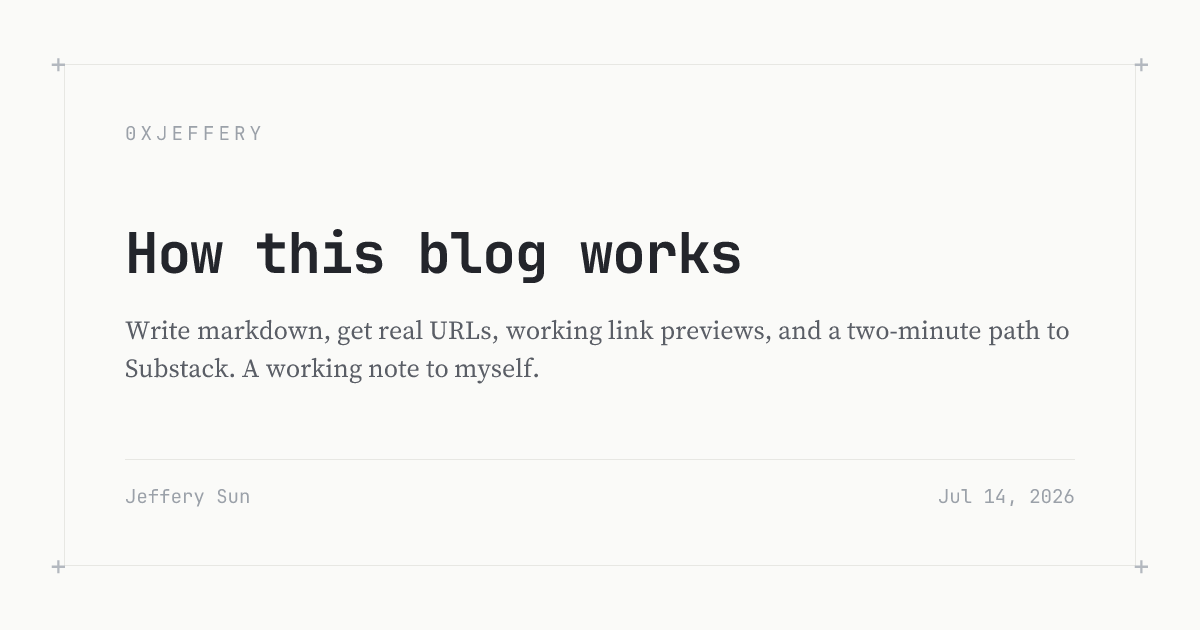
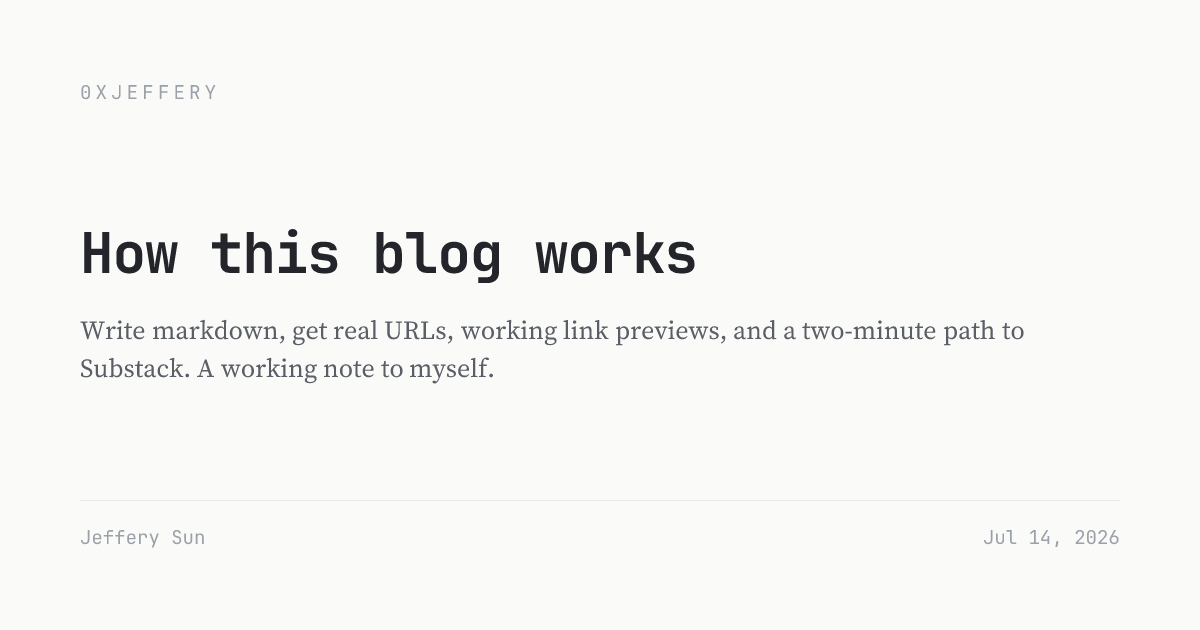
Updates

diff --git a/_astro/BaseLayout.9wKVtOul.css b/_astro/BaseLayout.9wKVtOul.css
@@ -1,0 +1,2 @@
+/*! tailwindcss v4.3.2 | MIT License | https://tailwindcss.com */
+@layer properties{@supports (((-webkit-hyphens:none)) and (not (margin-trim:inline))) or ((-moz-orient:inline) and (not (color:rgb(from red r g b)))){*,:before,:after,::backdrop{--tw-tracking:initial;--tw-space-y-reverse:0;--tw-leading:initial;--tw-font-weight:initial;--tw-duration:initial;--tw-ordinal:initial;--tw-slashed-zero:initial;--tw-numeric-figure:initial;--tw-numeric-spacing:initial;--tw-numeric-fraction:initial;--tw-border-style:solid}}}@layer theme{:root,:host{--font-sans:ui-sans-serif, system-ui, sans-serif, "Apple Color Emoji", "Segoe UI Emoji", "Segoe UI Symbol", "Noto Color Emoji";--font-serif:"Source Serif 4", ui-serif, Charter, "Iowan Old Style", Georgia, serif;--font-mono:"JetBrains Mono", ui-monospace, SFMono-Regular, Menlo, monospace;--spacing:.25rem;--text-xs:.75rem;--text-xs--line-height:calc(1 / .75);--text-sm:.875rem;--text-sm--line-height:calc(1.25 / .875);--text-base:1rem;--text-base--line-height:calc(1.5 / 1);--text-lg:1.125rem;--text-lg--line-height:calc(1.75 / 1.125);--text-2xl:1.5rem;--text-2xl--line-height:calc(2 / 1.5);--font-weight-semibold:600;--font-weight-bold:700;--tracking-tight:-.025em;--leading-tight:1.25;--leading-snug:1.375;--leading-relaxed:1.625;--default-transition-duration:.15s;--default-transition-timing-function:cubic-bezier(.4, 0, .2, 1);--default-font-family:var(--font-sans);--default-mono-font-family:var(--font-mono);--color-paper:#fafaf8;--color-ink:#23252b;--color-muted:#5a5e66;--color-faint:#9ba1a9;--color-line:#e7e7e3;--color-line2:#d5d5cf;--animate-fade-up:fade-up .6s ease-out both}}@layer base{*,:after,:before,::backdrop{box-sizing:border-box;border:0 solid;margin:0;padding:0}::file-selector-button{box-sizing:border-box;border:0 solid;margin:0;padding:0}html,:host{-webkit-text-size-adjust:100%;tab-size:4;line-height:1.5;font-family:var(--default-font-family,ui-sans-serif, system-ui, sans-serif, "Apple Color Emoji", "Segoe UI Emoji", "Segoe UI Symbol", "Noto Color Emoji");font-feature-settings:var(--default-font-feature-settings,normal);font-variation-settings:var(--default-font-variation-settings,normal);-webkit-tap-highlight-color:transparent}hr{height:0;color:inherit;border-top-width:1px}abbr:where([title]){text-decoration:underline dotted}h1,h2,h3,h4,h5,h6{font-size:inherit;font-weight:inherit}a{color:inherit;-webkit-text-decoration:inherit;-webkit-text-decoration:inherit;-webkit-text-decoration:inherit;text-decoration:inherit}b,strong{font-weight:bolder}code,kbd,samp,pre{font-family:var(--default-mono-font-family,ui-monospace, SFMono-Regular, Menlo, Monaco, Consolas, "Liberation Mono", "Courier New", monospace);font-feature-settings:var(--default-mono-font-feature-settings,normal);font-variation-settings:var(--default-mono-font-variation-settings,normal);font-size:1em}small{font-size:80%}sub,sup{vertical-align:baseline;font-size:75%;line-height:0;position:relative}sub{bottom:-.25em}sup{top:-.5em}table{text-indent:0;border-color:inherit;border-collapse:collapse}:-moz-focusring{outline:auto}progress{vertical-align:baseline}summary{display:list-item}ol,ul,menu{list-style:none}img,svg,video,canvas,audio,iframe,embed,object{vertical-align:middle;display:block}img,video{max-width:100%;height:auto}button,input,select,optgroup,textarea{font:inherit;font-feature-settings:inherit;font-variation-settings:inherit;letter-spacing:inherit;color:inherit;opacity:1;background-color:#0000;border-radius:0}::file-selector-button{font:inherit;font-feature-settings:inherit;font-variation-settings:inherit;letter-spacing:inherit;color:inherit;opacity:1;background-color:#0000;border-radius:0}:where(select:is([multiple],[size])) optgroup{font-weight:bolder}:where(select:is([multiple],[size])) optgroup option{padding-inline-start:20px}::file-selector-button{margin-inline-end:4px}::placeholder{opacity:1}@supports (not ((-webkit-appearance:-apple-pay-button))) or (contain-intrinsic-size:1px){::placeholder{color:currentColor}@supports (color:color-mix(in lab, red, red)){::placeholder{color:color-mix(in oklab, currentcolor 50%, transparent)}}}textarea{resize:vertical}::-webkit-search-decoration{-webkit-appearance:none}::-webkit-date-and-time-value{min-height:1lh;text-align:inherit}::-webkit-datetime-edit{display:inline-flex}::-webkit-datetime-edit-fields-wrapper{padding:0}::-webkit-datetime-edit{padding-block:0}::-webkit-datetime-edit-year-field{padding-block:0}::-webkit-datetime-edit-month-field{padding-block:0}::-webkit-datetime-edit-day-field{padding-block:0}::-webkit-datetime-edit-hour-field{padding-block:0}::-webkit-datetime-edit-minute-field{padding-block:0}::-webkit-datetime-edit-second-field{padding-block:0}::-webkit-datetime-edit-millisecond-field{padding-block:0}::-webkit-datetime-edit-meridiem-field{padding-block:0}::-webkit-calendar-picker-indicator{line-height:1}:-moz-ui-invalid{box-shadow:none}button,input:where([type=button],[type=reset],[type=submit]){appearance:button}::file-selector-button{appearance:button}::-webkit-inner-spin-button{height:auto}::-webkit-outer-spin-button{height:auto}[hidden]:where(:not([hidden=until-found])){display:none!important}html{scroll-behavior:smooth}body{background-color:var(--color-paper);font-family:var(--font-mono);color:var(--color-ink);-webkit-font-smoothing:antialiased;-moz-osx-font-smoothing:grayscale}::selection{color:#fafaf8;background:#23252bd9}}@layer components{.prose{font-family:var(--font-serif);--tw-leading:1.65;color:var(--color-ink);font-variant-numeric:oldstyle-nums proportional-nums;text-wrap:pretty;font-size:1.0625rem;line-height:1.65}.prose>*+*{margin-top:calc(var(--spacing) * 5)}.prose h2{margin-top:calc(var(--spacing) * 14);font-family:var(--font-mono);font-size:var(--text-base);line-height:var(--tw-leading,var(--text-base--line-height));--tw-font-weight:var(--font-weight-bold);font-weight:var(--font-weight-bold);--tw-tracking:var(--tracking-tight);letter-spacing:var(--tracking-tight);color:var(--color-ink)}.prose h3{margin-top:calc(var(--spacing) * 9);font-family:var(--font-mono);font-size:var(--text-sm);line-height:var(--tw-leading,var(--text-sm--line-height));--tw-font-weight:var(--font-weight-bold);font-weight:var(--font-weight-bold);--tw-tracking:var(--tracking-tight);letter-spacing:var(--tracking-tight);color:var(--color-ink)}.prose h2+*,.prose h3+*{margin-top:calc(var(--spacing) * 3)}.prose a{color:var(--color-ink);transition-property:color,background-color,border-color,outline-color,text-decoration-color,fill,stroke,--tw-gradient-from,--tw-gradient-via,--tw-gradient-to;transition-timing-function:var(--tw-ease,var(--default-transition-timing-function));transition-duration:var(--tw-duration,var(--default-transition-duration));--tw-duration:.15s;text-underline-offset:3px;text-decoration:underline 1px #cfcfc8;transition-duration:.15s}.prose a:hover{color:var(--color-muted);text-decoration-color:#5a5e66}.prose strong{--tw-font-weight:var(--font-weight-semibold);font-weight:var(--font-weight-semibold);color:var(--color-ink)}.prose em{font-style:italic}.prose ul{list-style-type:disc;list-style-position:outside}:where(.prose ul>:not(:last-child)){--tw-space-y-reverse:0;margin-block-start:calc(calc(var(--spacing) * 2) * var(--tw-space-y-reverse));margin-block-end:calc(calc(var(--spacing) * 2) * calc(1 - var(--tw-space-y-reverse)))}.prose ul{padding-left:calc(var(--spacing) * 5)}.prose ol{list-style-type:decimal;list-style-position:outside}:where(.prose ol>:not(:last-child)){--tw-space-y-reverse:0;margin-block-start:calc(calc(var(--spacing) * 2) * var(--tw-space-y-reverse));margin-block-end:calc(calc(var(--spacing) * 2) * calc(1 - var(--tw-space-y-reverse)))}.prose ol{padding-left:calc(var(--spacing) * 5)}.prose li::marker{font-family:var(--font-mono);font-size:var(--text-sm);line-height:var(--tw-leading,var(--text-sm--line-height));color:var(--color-faint)}.prose blockquote{border-left-style:var(--tw-border-style);border-left-width:2px;border-color:var(--color-line2);padding-block:var(--spacing);padding-left:calc(var(--spacing) * 5);color:var(--color-muted);font-style:italic}.prose hr{margin-block:calc(var(--spacing) * 12);border-top-style:var(--tw-border-style);border-top-width:1px;border-color:var(--color-line)}.prose img{margin-block:calc(var(--spacing) * 8);border-style:var(--tw-border-style);border-width:1px;border-color:var(--color-line);max-width:100%}.prose figcaption{margin-top:calc(var(--spacing) * 2);font-family:var(--font-mono);font-size:var(--text-xs);line-height:var(--tw-leading,var(--text-xs--line-height));color:var(--color-faint)}.prose code:not(pre code){background-color:#23252b0a;border-radius:2px}@supports (color:color-mix(in lab, red, red)){.prose code:not(pre code){background-color:color-mix(in oklab, var(--color-ink) 4%, transparent)}}.prose code:not(pre code){padding-inline:var(--spacing);padding-block:calc(var(--spacing) * .5);font-family:var(--font-mono);color:var(--color-ink);font-size:.8125rem}.prose pre{padding:calc(var(--spacing) * 5);font-family:var(--font-mono);--tw-leading:var(--leading-relaxed);font-size:.8125rem;line-height:var(--leading-relaxed);overflow-x:auto;background-color:#23252b09!important}.prose pre code{background-color:#0000;padding:0}.prose table{border-collapse:collapse;width:100%;font-family:var(--font-mono);font-size:.8125rem}.prose th,.prose td{border-bottom-style:var(--tw-border-style);border-bottom-width:1px;border-color:var(--color-line);padding-block:calc(var(--spacing) * 2);padding-right:calc(var(--spacing) * 6);text-align:left}.prose th{--tw-tracking:.1em;letter-spacing:.1em;color:var(--color-faint);text-transform:uppercase;font-size:11px}.prose .footnotes{margin-top:calc(var(--spacing) * 12);border-top-style:var(--tw-border-style);border-top-width:1px;border-color:var(--color-line);padding-top:calc(var(--spacing) * 6);font-size:var(--text-sm);line-height:var(--tw-leading,var(--text-sm--line-height));color:var(--color-muted)}.sidenote{border-left-style:var(--tw-border-style);border-left-width:2px;border-color:var(--color-line2);padding-block:var(--spacing);padding-left:calc(var(--spacing) * 4);font-family:var(--font-mono);--tw-leading:var(--leading-relaxed);font-size:.75rem;line-height:var(--leading-relaxed);color:var(--color-muted);margin-block:calc(var(--spacing) * 4);display:block}@media (width>=64rem){.sidenote{float:right;clear:right;margin-block:var(--spacing);margin-left:calc(var(--spacing) * 8);border-left-style:var(--tw-border-style);padding-block:0;border-left-width:0;width:11rem;margin-right:-13.5rem;padding-left:0}}}@layer utilities{.visible{visibility:visible}.absolute{position:absolute}.fixed{position:fixed}.relative{position:relative}.static{position:static}.mx-auto{margin-inline:auto}.mt-1{margin-top:var(--spacing)}.mt-2{margin-top:calc(var(--spacing) * 2)}.mt-3{margin-top:calc(var(--spacing) * 3)}.mt-4{margin-top:calc(var(--spacing) * 4)}.mt-8{margin-top:calc(var(--spacing) * 8)}.mt-12{margin-top:calc(var(--spacing) * 12)}.mt-14{margin-top:calc(var(--spacing) * 14)}.mt-20{margin-top:calc(var(--spacing) * 20)}.mt-24{margin-top:calc(var(--spacing) * 24)}.mb-3{margin-bottom:calc(var(--spacing) * 3)}.mb-10{margin-bottom:calc(var(--spacing) * 10)}.tag{font-family:var(--font-mono);--tw-tracking:.14em;letter-spacing:.14em;color:var(--color-faint);text-transform:lowercase;align-items:center;font-size:11px;display:inline-flex}.block{display:block}.contents{display:contents}.flex{display:flex}.hidden{display:none}.min-h-screen{min-height:100vh}.max-w-\[60ch\]{max-width:60ch}.max-w-\[74rem\]{max-width:74rem}.animate-fade-up{animation:var(--animate-fade-up)}.cursor-pointer{cursor:pointer}.flex-wrap{flex-wrap:wrap}.items-center{align-items:center}.justify-between{justify-content:space-between}.gap-2{gap:calc(var(--spacing) * 2)}:where(.space-y-2>:not(:last-child)){--tw-space-y-reverse:0;margin-block-start:calc(calc(var(--spacing) * 2) * var(--tw-space-y-reverse));margin-block-end:calc(calc(var(--spacing) * 2) * calc(1 - var(--tw-space-y-reverse)))}:where(.space-y-12>:not(:last-child)){--tw-space-y-reverse:0;margin-block-start:calc(calc(var(--spacing) * 12) * var(--tw-space-y-reverse));margin-block-end:calc(calc(var(--spacing) * 12) * calc(1 - var(--tw-space-y-reverse)))}.gap-x-3{column-gap:calc(var(--spacing) * 3)}.gap-x-5{column-gap:calc(var(--spacing) * 5)}.gap-y-2{row-gap:calc(var(--spacing) * 2)}.overflow-x-hidden{overflow-x:hidden}.px-5{padding-inline:calc(var(--spacing) * 5)}.py-14{padding-block:calc(var(--spacing) * 14)}.py-20{padding-block:calc(var(--spacing) * 20)}.pt-1{padding-top:var(--spacing)}.font-mono{font-family:var(--font-mono)}.font-serif{font-family:var(--font-serif)}.text-2xl{font-size:var(--text-2xl);line-height:var(--tw-leading,var(--text-2xl--line-height))}.text-base{font-size:var(--text-base);line-height:var(--tw-leading,var(--text-base--line-height))}.text-lg{font-size:var(--text-lg);line-height:var(--tw-leading,var(--text-lg--line-height))}.text-sm{font-size:var(--text-sm);line-height:var(--tw-leading,var(--text-sm--line-height))}.text-xs{font-size:var(--text-xs);line-height:var(--tw-leading,var(--text-xs--line-height))}.leading-relaxed{--tw-leading:var(--leading-relaxed);line-height:var(--leading-relaxed)}.leading-snug{--tw-leading:var(--leading-snug);line-height:var(--leading-snug)}.leading-tight{--tw-leading:var(--leading-tight);line-height:var(--leading-tight)}.font-bold{--tw-font-weight:var(--font-weight-bold);font-weight:var(--font-weight-bold)}.tracking-\[0\.15em\]{--tw-tracking:.15em;letter-spacing:.15em}.tracking-\[0\.18em\]{--tw-tracking:.18em;letter-spacing:.18em}.tracking-tight{--tw-tracking:var(--tracking-tight);letter-spacing:var(--tracking-tight)}.ulink{color:var(--color-ink);transition-property:color,background-color,border-color,outline-color,text-decoration-color,fill,stroke,--tw-gradient-from,--tw-gradient-via,--tw-gradient-to;transition-timing-function:var(--tw-ease,var(--default-transition-timing-function));transition-duration:var(--tw-duration,var(--default-transition-duration));--tw-duration:.15s;text-underline-offset:3px;text-decoration:underline 1px #cfcfc8;transition-duration:.15s}.ulink:hover{color:var(--color-muted);text-decoration-color:#5a5e66}.text-faint{color:var(--color-faint)}.text-ink{color:var(--color-ink)}.text-muted{color:var(--color-muted)}.uppercase{text-transform:uppercase}.tabular-nums{--tw-numeric-spacing:tabular-nums;font-variant-numeric:var(--tw-ordinal,) var(--tw-slashed-zero,) var(--tw-numeric-figure,) var(--tw-numeric-spacing,) var(--tw-numeric-fraction,)}.underline{text-decoration-line:underline}.decoration-\[\#cfcfc8\]{text-decoration-color:#cfcfc8}.decoration-1{text-decoration-thickness:1px}.underline-offset-\[3px\]{text-underline-offset:3px}.opacity-0{opacity:0}.transition-colors{transition-property:color,background-color,border-color,outline-color,text-decoration-color,fill,stroke,--tw-gradient-from,--tw-gradient-via,--tw-gradient-to;transition-timing-function:var(--tw-ease,var(--default-transition-timing-function));transition-duration:var(--tw-duration,var(--default-transition-duration))}.transition-opacity{transition-property:opacity;transition-timing-function:var(--tw-ease,var(--default-transition-timing-function));transition-duration:var(--tw-duration,var(--default-transition-duration))}@media (hover:hover){.group-hover\:text-muted:is(:where(.group):hover *){color:var(--color-muted)}.group-hover\:decoration-\[\#5a5e66\]:is(:where(.group):hover *){text-decoration-color:#5a5e66}}@media (width>=40rem){.sm\:mt-0{margin-top:0}.sm\:grid{display:grid}.sm\:grid-cols-\[9rem_minmax\(0\,64ch\)\]{grid-template-columns:9rem minmax(0,64ch)}.sm\:gap-10{gap:calc(var(--spacing) * 10)}.sm\:px-10{padding-inline:calc(var(--spacing) * 10)}.sm\:py-16{padding-block:calc(var(--spacing) * 16)}.sm\:text-\[1\.75rem\]{font-size:1.75rem}}@media (width>=64rem){.lg\:sticky{position:sticky}.lg\:top-14{top:calc(var(--spacing) * 14)}.lg\:mb-0{margin-bottom:0}.lg\:block{display:block}.lg\:grid{display:grid}.lg\:grid-cols-\[11rem_minmax\(0\,64ch\)_11rem\]{grid-template-columns:11rem minmax(0,64ch) 11rem}.lg\:justify-center{justify-content:center}.lg\:gap-10{gap:calc(var(--spacing) * 10)}.lg\:px-14{padding-inline:calc(var(--spacing) * 14)}}}::-webkit-scrollbar{width:10px;height:10px}::-webkit-scrollbar-track{background:0 0}::-webkit-scrollbar-thumb{background:#d5d5cf;border-radius:6px}::-webkit-scrollbar-thumb:hover{background:#bcbcb4}@property --tw-tracking{syntax:"*";inherits:false}@property --tw-space-y-reverse{syntax:"*";inherits:false;initial-value:0}@property --tw-leading{syntax:"*";inherits:false}@property --tw-font-weight{syntax:"*";inherits:false}@property --tw-duration{syntax:"*";inherits:false}@property --tw-ordinal{syntax:"*";inherits:false}@property --tw-slashed-zero{syntax:"*";inherits:false}@property --tw-numeric-figure{syntax:"*";inherits:false}@property --tw-numeric-spacing{syntax:"*";inherits:false}@property --tw-numeric-fraction{syntax:"*";inherits:false}@property --tw-border-style{syntax:"*";inherits:false;initial-value:solid}@keyframes fade-up{0%{opacity:0;transform:translateY(8px)}to{opacity:1;transform:translateY(0)}}

diff --git a/posts/how-this-works/index.html b/posts/how-this-works/index.html
@@ -1,8 +1,8 @@
-<!DOCTYPE html><html lang="en"><head><meta charset="utf-8"><meta name="viewport" content="width=device-width, initial-scale=1"><meta name="theme-color" content="#fafaf8"><meta name="generator" content="Astro v7.0.9"><title>How this blog works — 0xjeffery</title><meta name="description" content="Write markdown, get real URLs, working link previews, and a two-minute path to Substack. A working note to myself."><link rel="canonical" href="https://0xjeffery.com/posts/how-this-works/"><link rel="icon" href="/logo.png" type="image/png"><link rel="sitemap" href="/sitemap-index.xml"><link rel="alternate" type="application/rss+xml" title="0xjeffery — Writing on markets, AI, and tech." href="https://0xjeffery.com/rss.xml"><!-- Open Graph: what LinkedIn (and most everything else) reads. --><meta property="og:type" content="article"><meta property="og:url" content="https://0xjeffery.com/posts/how-this-works/"><meta property="og:title" content="How this blog works"><meta property="og:description" content="Write markdown, get real URLs, working link previews, and a two-minute path to Substack. A working note to myself."><meta property="og:image" content="https://0xjeffery.com/og/how-this-works.png"><meta property="og:image:width" content="1200"><meta property="og:image:height" content="630"><meta property="og:image:alt" content="How this blog works"><meta property="og:site_name" content="0xjeffery"><meta property="og:locale" content="en_US"><meta property="article:published_time" content="2026-07-14T00:00:00.000Z"><meta property="article:author" content="Jeffery Sun"><!-- Twitter/X card. `summary_large_image` is what renders the big preview. --><meta name="twitter:card" content="summary_large_image"><meta name="twitter:title" content="How this blog works"><meta name="twitter:description" content="Write markdown, get real URLs, working link previews, and a two-minute path to Substack. A working note to myself."><meta name="twitter:image" content="https://0xjeffery.com/og/how-this-works.png"><meta name="twitter:image:alt" content="How this blog works"><link rel="preconnect" href="https://fonts.googleapis.com"><link rel="preconnect" href="https://fonts.gstatic.com" crossorigin><link href="https://fonts.googleapis.com/css2?family=JetBrains+Mono:wght@400;500;700&family=Source+Serif+4:ital,opsz,wght@0,8..60,400..600;1,8..60,400&display=swap" rel="stylesheet"><link rel="stylesheet" href="/_astro/BaseLayout.CXotwUak.css"></head><body><div class="animate-fade-up min-h-screen overflow-x-hidden"><div class="mx-auto max-w-[74rem] px-5 py-10 sm:px-8 sm:py-12"><div class="frame border-line relative px-1 sm:border-x sm:px-8 lg:px-10"><main class="py-2"><a href="/" class="ulink text-muted font-mono text-xs tracking-[0.18em] uppercase">← index</a><article class="mt-10"><header class="border-line border-b pb-7"><h1 class="text-ink font-mono text-2xl leading-tight font-bold tracking-tight sm:text-[1.75rem]">How this blog works</h1><p class="text-muted font-serif mt-4 max-w-[60ch] text-lg leading-relaxed">Write markdown, get real URLs, working link previews, and a two-minute path to Substack. A working note to myself.</p></header><!--
+<!DOCTYPE html><html lang="en"><head><meta charset="utf-8"><meta name="viewport" content="width=device-width, initial-scale=1"><meta name="theme-color" content="#fafaf8"><meta name="generator" content="Astro v7.0.9"><title>How this blog works — 0xjeffery</title><meta name="description" content="Write markdown, get real URLs, working link previews, and a two-minute path to Substack. A working note to myself."><link rel="canonical" href="https://0xjeffery.com/posts/how-this-works/"><link rel="icon" href="/logo.png" type="image/png"><link rel="sitemap" href="/sitemap-index.xml"><link rel="alternate" type="application/rss+xml" title="0xjeffery — Writing on markets, AI, and tech." href="https://0xjeffery.com/rss.xml"><!-- Open Graph: what LinkedIn (and most everything else) reads. --><meta property="og:type" content="article"><meta property="og:url" content="https://0xjeffery.com/posts/how-this-works/"><meta property="og:title" content="How this blog works"><meta property="og:description" content="Write markdown, get real URLs, working link previews, and a two-minute path to Substack. A working note to myself."><meta property="og:image" content="https://0xjeffery.com/og/how-this-works.png"><meta property="og:image:width" content="1200"><meta property="og:image:height" content="630"><meta property="og:image:alt" content="How this blog works"><meta property="og:site_name" content="0xjeffery"><meta property="og:locale" content="en_US"><meta property="article:published_time" content="2026-07-14T00:00:00.000Z"><meta property="article:author" content="Jeffery Sun"><!-- Twitter/X card. `summary_large_image` is what renders the big preview. --><meta name="twitter:card" content="summary_large_image"><meta name="twitter:title" content="How this blog works"><meta name="twitter:description" content="Write markdown, get real URLs, working link previews, and a two-minute path to Substack. A working note to myself."><meta name="twitter:image" content="https://0xjeffery.com/og/how-this-works.png"><meta name="twitter:image:alt" content="How this blog works"><link rel="preconnect" href="https://fonts.googleapis.com"><link rel="preconnect" href="https://fonts.gstatic.com" crossorigin><link href="https://fonts.googleapis.com/css2?family=JetBrains+Mono:wght@400;500;700&family=Source+Serif+4:ital,opsz,wght@0,8..60,400..600;1,8..60,400&display=swap" rel="stylesheet"><link rel="stylesheet" href="/_astro/BaseLayout.9wKVtOul.css"></head><body><div class="animate-fade-up min-h-screen overflow-x-hidden"><div class="mx-auto max-w-[74rem] px-5 py-14 sm:px-10 sm:py-16 lg:px-14"><main><a href="/" class="ulink text-muted font-mono text-xs tracking-[0.18em] uppercase">← index</a><article class="mt-12"><header><h1 class="text-ink font-mono text-2xl leading-tight font-bold tracking-tight sm:text-[1.75rem]">How this blog works</h1><p class="text-muted font-serif mt-4 max-w-[60ch] text-lg leading-relaxed">Write markdown, get real URLs, working link previews, and a two-minute path to Substack. A working note to myself.</p></header><!--
       Three columns on wide screens: metadata + contents in the left margin, prose at a
       fixed measure in the middle, and an empty right column that <Side> notes float into.
       Below `lg` it all collapses to a single column.
-    --><div class="mt-10 lg:grid lg:grid-cols-[11rem_minmax(0,64ch)_11rem] lg:justify-center lg:gap-10"><aside class="border-line mb-8 border-b pb-6 font-mono text-xs lg:mb-0 lg:border-0 lg:pb-0"><div class="lg:sticky lg:top-10"><div class="text-faint"><time datetime="2026-07-14T00:00:00.000Z">Jul 14, 2026</time></div><div class="mt-3 flex flex-wrap gap-1.5"><span class="chip">meta</span></div><nav class="border-line mt-6 hidden border-t pt-5 lg:block" aria-label="Contents"><p class="text-faint mb-3 text-[10px] tracking-[0.18em] uppercase">contents</p><ol class="space-y-2"><li class="flex gap-2 leading-snug"><span class="text-faint tabular-nums">01</span><a href="#writing-a-post" class="ulink text-muted">Writing a post</a></li><li class="flex gap-2 leading-snug"><span class="text-faint tabular-nums">02</span><a href="#margin-notes" class="ulink text-muted">Margin notes</a></li><li class="flex gap-2 leading-snug"><span class="text-faint tabular-nums">03</span><a href="#why-the-link-previews-work-now" class="ulink text-muted">Why the link previews work now</a></li><li class="flex gap-2 leading-snug"><span class="text-faint tabular-nums">04</span><a href="#sharing" class="ulink text-muted">Sharing</a></li><li class="flex gap-2 leading-snug"><span class="text-faint tabular-nums">05</span><a href="#cross-posting-to-substack" class="ulink text-muted">Cross-posting to Substack</a></li></ol></nav></div></aside><!-- `data-article-body` is the exact subtree the "copy for substack" button lifts. --><div data-article-body class="prose"><p>This post exists to document the thing it’s written in, and to show what the typography
+    --><div class="mt-14 lg:grid lg:grid-cols-[11rem_minmax(0,64ch)_11rem] lg:justify-center lg:gap-10"><aside class="mb-10 font-mono text-xs lg:mb-0"><div class="lg:sticky lg:top-14"><div class="text-faint"><time datetime="2026-07-14T00:00:00.000Z">Jul 14, 2026</time></div><div class="mt-2 flex flex-wrap gap-x-3"><span class="tag">meta</span></div><nav class="mt-8 hidden lg:block" aria-label="Contents"><ol class="space-y-2"><li class="flex gap-2 leading-snug"><span class="text-faint tabular-nums">01</span><a href="#writing-a-post" class="ulink text-muted">Writing a post</a></li><li class="flex gap-2 leading-snug"><span class="text-faint tabular-nums">02</span><a href="#margin-notes" class="ulink text-muted">Margin notes</a></li><li class="flex gap-2 leading-snug"><span class="text-faint tabular-nums">03</span><a href="#why-the-link-previews-work-now" class="ulink text-muted">Why the link previews work now</a></li><li class="flex gap-2 leading-snug"><span class="text-faint tabular-nums">04</span><a href="#sharing" class="ulink text-muted">Sharing</a></li><li class="flex gap-2 leading-snug"><span class="text-faint tabular-nums">05</span><a href="#cross-posting-to-substack" class="ulink text-muted">Cross-posting to Substack</a></li></ol></nav></div></aside><!-- `data-article-body` is the exact subtree the "copy for substack" button lifts. --><div data-article-body class="prose"><p>This post exists to document the thing it’s written in, and to show what the typography
 actually looks like. Delete it whenever.</p>
 <h2 id="writing-a-post">Writing a post</h2>
 <p>Drop a file in <code>src/content/posts/</code>. The filename becomes the URL, so <code>energy-transition.md</code>
@@ -69,4 +69,4 @@ under Settings → Import, and <code>/rss.xml</code> carries the full body of ev
 back catalogue lands as drafts in one shot. It’s a one-time tool, not a sync — but you only
 need it once.</p>
 <hr/>
-<p>The site is the canonical home; Substack is just the email pipe. Write once, here.</p></div></div></article><div class="border-line mt-14 border-t pt-5"><div class="flex flex-wrap items-center gap-x-4 gap-y-3"><span class="text-faint text-[11px] tracking-[0.18em] uppercase">share</span><a href="https://x.com/intent/post?text=How%20this%20blog%20works&amp;url=https%3A%2F%2F0xjeffery.com%2Fposts%2Fhow-this-works%2F" target="_blank" rel="noopener noreferrer" class="chip hover:border-ink hover:text-ink transition-colors">x</a><a href="https://www.linkedin.com/sharing/share-offsite/?url=https%3A%2F%2F0xjeffery.com%2Fposts%2Fhow-this-works%2F" target="_blank" rel="noopener noreferrer" class="chip hover:border-ink hover:text-ink transition-colors">linkedin</a><button type="button" data-copy-link="https://0xjeffery.com/posts/how-this-works/" class="chip hover:border-ink hover:text-ink cursor-pointer transition-colors">copy link</button><button type="button" data-copy-substack class="chip hover:border-ink hover:text-ink cursor-pointer transition-colors">copy for substack</button><span data-share-status class="text-faint text-[11px] opacity-0 transition-opacity" role="status" aria-live="polite"></span></div></div><script type="module">var e=document.querySelector(`[data-share-status]`),t;function n(n){e&&(e.textContent=n,e.style.opacity=`1`,clearTimeout(t),t=setTimeout(()=>e.style.opacity=`0`,2400))}document.querySelector(`[data-copy-link]`)?.addEventListener(`click`,async e=>{let t=e.currentTarget.dataset.copyLink;try{await navigator.clipboard.writeText(t),n(`link copied`)}catch{n(`copy failed — press ⌘C`)}}),document.querySelector(`[data-copy-substack]`)?.addEventListener(`click`,async()=>{let e=document.querySelector(`[data-article-body]`);if(!e)return;let t=e.cloneNode(!0);t.querySelectorAll(`a[href]`).forEach(e=>{e.setAttribute(`href`,new URL(e.getAttribute(`href`),location.href).toString())}),t.querySelectorAll(`img[src]`).forEach(e=>{e.setAttribute(`src`,new URL(e.getAttribute(`src`),location.href).toString()),e.removeAttribute(`srcset`),e.removeAttribute(`loading`)}),t.querySelectorAll(`[class]`).forEach(e=>e.removeAttribute(`class`)),t.querySelectorAll(`[id]`).forEach(e=>e.removeAttribute(`id`));let r=t.innerHTML,i=e.innerText;try{await navigator.clipboard.write([new ClipboardItem({"text/html":new Blob([r],{type:`text/html`}),"text/plain":new Blob([i],{type:`text/plain`})})]),n(`article copied — paste into Substack`)}catch{try{await navigator.clipboard.writeText(i),n(`copied as plain text (rich copy unsupported here)`)}catch{n(`copy failed — select the article and press ⌘C`)}}});</script></main><footer class="border-line text-faint mt-20 flex items-center justify-between border-t pt-5 font-mono text-xs"><span>© 2026 Jeffery Sun</span><a href="/rss.xml" class="ulink text-faint tracking-[0.15em]">rss</a></footer></div></div></div></body></html>
+<p>The site is the canonical home; Substack is just the email pipe. Write once, here.</p></div></div></article><div class="mt-20"><div class="text-faint flex flex-wrap items-center gap-x-5 gap-y-2 font-mono text-xs"><span class="tracking-[0.18em]">share</span><a href="https://x.com/intent/post?text=How%20this%20blog%20works&amp;url=https%3A%2F%2F0xjeffery.com%2Fposts%2Fhow-this-works%2F" target="_blank" rel="noopener noreferrer" class="ulink text-muted">x</a><a href="https://www.linkedin.com/sharing/share-offsite/?url=https%3A%2F%2F0xjeffery.com%2Fposts%2Fhow-this-works%2F" target="_blank" rel="noopener noreferrer" class="ulink text-muted">linkedin</a><button type="button" data-copy-link="https://0xjeffery.com/posts/how-this-works/" class="ulink text-muted cursor-pointer">copy link</button><button type="button" data-copy-substack class="ulink text-muted cursor-pointer">copy for substack</button><span data-share-status class="text-faint opacity-0 transition-opacity" role="status" aria-live="polite"></span></div></div><script type="module">var e=document.querySelector(`[data-share-status]`),t;function n(n){e&&(e.textContent=n,e.style.opacity=`1`,clearTimeout(t),t=setTimeout(()=>e.style.opacity=`0`,2400))}document.querySelector(`[data-copy-link]`)?.addEventListener(`click`,async e=>{let t=e.currentTarget.dataset.copyLink;try{await navigator.clipboard.writeText(t),n(`link copied`)}catch{n(`copy failed — press ⌘C`)}}),document.querySelector(`[data-copy-substack]`)?.addEventListener(`click`,async()=>{let e=document.querySelector(`[data-article-body]`);if(!e)return;let t=e.cloneNode(!0);t.querySelectorAll(`a[href]`).forEach(e=>{e.setAttribute(`href`,new URL(e.getAttribute(`href`),location.href).toString())}),t.querySelectorAll(`img[src]`).forEach(e=>{e.setAttribute(`src`,new URL(e.getAttribute(`src`),location.href).toString()),e.removeAttribute(`srcset`),e.removeAttribute(`loading`)}),t.querySelectorAll(`[class]`).forEach(e=>e.removeAttribute(`class`)),t.querySelectorAll(`[id]`).forEach(e=>e.removeAttribute(`id`));let r=t.innerHTML,i=e.innerText;try{await navigator.clipboard.write([new ClipboardItem({"text/html":new Blob([r],{type:`text/html`}),"text/plain":new Blob([i],{type:`text/plain`})})]),n(`article copied — paste into Substack`)}catch{try{await navigator.clipboard.writeText(i),n(`copied as plain text (rich copy unsupported here)`)}catch{n(`copy failed — select the article and press ⌘C`)}}});</script></main><footer class="text-faint mt-24 flex items-center justify-between font-mono text-xs"><span>© 2026 Jeffery Sun</span><a href="/rss.xml" class="ulink text-faint tracking-[0.15em]">rss</a></footer></div></div></body></html>

diff --git a/index.html b/index.html
@@ -1,1 +1,1 @@
-<!DOCTYPE html><html lang="en"><head><meta charset="utf-8"><meta name="viewport" content="width=device-width, initial-scale=1"><meta name="theme-color" content="#fafaf8"><meta name="generator" content="Astro v7.0.9"><title>0xjeffery</title><meta name="description" content="Writing on markets, AI, and tech."><link rel="canonical" href="https://0xjeffery.com/"><link rel="icon" href="/logo.png" type="image/png"><link rel="sitemap" href="/sitemap-index.xml"><link rel="alternate" type="application/rss+xml" title="0xjeffery — Writing on markets, AI, and tech." href="https://0xjeffery.com/rss.xml"><!-- Open Graph: what LinkedIn (and most everything else) reads. --><meta property="og:type" content="website"><meta property="og:url" content="https://0xjeffery.com/"><meta property="og:title" content="0xjeffery"><meta property="og:description" content="Writing on markets, AI, and tech."><meta property="og:image" content="https://0xjeffery.com/og/index.png"><meta property="og:image:width" content="1200"><meta property="og:image:height" content="630"><meta property="og:image:alt" content="0xjeffery"><meta property="og:site_name" content="0xjeffery"><meta property="og:locale" content="en_US"><!-- Twitter/X card. `summary_large_image` is what renders the big preview. --><meta name="twitter:card" content="summary_large_image"><meta name="twitter:title" content="0xjeffery"><meta name="twitter:description" content="Writing on markets, AI, and tech."><meta name="twitter:image" content="https://0xjeffery.com/og/index.png"><meta name="twitter:image:alt" content="0xjeffery"><link rel="preconnect" href="https://fonts.googleapis.com"><link rel="preconnect" href="https://fonts.gstatic.com" crossorigin><link href="https://fonts.googleapis.com/css2?family=JetBrains+Mono:wght@400;500;700&family=Source+Serif+4:ital,opsz,wght@0,8..60,400..600;1,8..60,400&display=swap" rel="stylesheet"><link rel="stylesheet" href="/_astro/BaseLayout.CXotwUak.css"></head><body><div class="animate-fade-up min-h-screen overflow-x-hidden"><div class="mx-auto max-w-[74rem] px-5 py-10 sm:px-8 sm:py-12"><div class="frame border-line relative px-1 sm:border-x sm:px-8 lg:px-10"><main class="py-2"><header class="border-line border-b pb-8"><h1 class="text-ink font-mono text-2xl font-bold tracking-tight">Jeffery Sun</h1><p class="text-muted font-serif mt-3 max-w-[60ch] text-lg leading-relaxed">Writing on markets, AI, and tech.</p></header><ul class="mt-12 space-y-10"><li class="sm:grid sm:grid-cols-[9rem_minmax(0,64ch)] sm:gap-10"><div class="text-faint pt-1 font-mono text-xs"><time datetime="2026-07-14T00:00:00.000Z">Jul 14, 2026</time></div><div class="mt-2 sm:mt-0"><a href="/posts/how-this-works/" class="group block"><h2 class="text-ink group-hover:text-muted font-mono text-base font-bold tracking-tight underline decoration-[#cfcfc8] decoration-1 underline-offset-[3px] transition-colors group-hover:decoration-[#5a5e66]">How this blog works</h2><p class="text-muted font-serif mt-2 leading-relaxed">Write markdown, get real URLs, working link previews, and a two-minute path to Substack. A working note to myself.</p></a><div class="mt-3 flex flex-wrap gap-1.5"><span class="chip">meta</span></div></div></li></ul></main><footer class="border-line text-faint mt-20 flex items-center justify-between border-t pt-5 font-mono text-xs"><span>© 2026 Jeffery Sun</span><a href="/rss.xml" class="ulink text-faint tracking-[0.15em]">rss</a></footer></div></div></div></body></html>
+<!DOCTYPE html><html lang="en"><head><meta charset="utf-8"><meta name="viewport" content="width=device-width, initial-scale=1"><meta name="theme-color" content="#fafaf8"><meta name="generator" content="Astro v7.0.9"><title>0xjeffery</title><meta name="description" content="Writing on markets, AI, and tech."><link rel="canonical" href="https://0xjeffery.com/"><link rel="icon" href="/logo.png" type="image/png"><link rel="sitemap" href="/sitemap-index.xml"><link rel="alternate" type="application/rss+xml" title="0xjeffery — Writing on markets, AI, and tech." href="https://0xjeffery.com/rss.xml"><!-- Open Graph: what LinkedIn (and most everything else) reads. --><meta property="og:type" content="website"><meta property="og:url" content="https://0xjeffery.com/"><meta property="og:title" content="0xjeffery"><meta property="og:description" content="Writing on markets, AI, and tech."><meta property="og:image" content="https://0xjeffery.com/og/index.png"><meta property="og:image:width" content="1200"><meta property="og:image:height" content="630"><meta property="og:image:alt" content="0xjeffery"><meta property="og:site_name" content="0xjeffery"><meta property="og:locale" content="en_US"><!-- Twitter/X card. `summary_large_image` is what renders the big preview. --><meta name="twitter:card" content="summary_large_image"><meta name="twitter:title" content="0xjeffery"><meta name="twitter:description" content="Writing on markets, AI, and tech."><meta name="twitter:image" content="https://0xjeffery.com/og/index.png"><meta name="twitter:image:alt" content="0xjeffery"><link rel="preconnect" href="https://fonts.googleapis.com"><link rel="preconnect" href="https://fonts.gstatic.com" crossorigin><link href="https://fonts.googleapis.com/css2?family=JetBrains+Mono:wght@400;500;700&family=Source+Serif+4:ital,opsz,wght@0,8..60,400..600;1,8..60,400&display=swap" rel="stylesheet"><link rel="stylesheet" href="/_astro/BaseLayout.9wKVtOul.css"></head><body><div class="animate-fade-up min-h-screen overflow-x-hidden"><div class="mx-auto max-w-[74rem] px-5 py-14 sm:px-10 sm:py-16 lg:px-14"><main><header><h1 class="text-ink font-mono text-2xl font-bold tracking-tight">Jeffery Sun</h1><p class="text-muted font-serif mt-3 max-w-[60ch] text-lg leading-relaxed">Writing on markets, AI, and tech.</p></header><ul class="mt-20 space-y-12"><li class="sm:grid sm:grid-cols-[9rem_minmax(0,64ch)] sm:gap-10"><div class="text-faint pt-1 font-mono text-xs"><time datetime="2026-07-14T00:00:00.000Z">Jul 14, 2026</time></div><div class="mt-2 sm:mt-0"><a href="/posts/how-this-works/" class="group block"><h2 class="text-ink group-hover:text-muted font-mono text-base font-bold tracking-tight underline decoration-[#cfcfc8] decoration-1 underline-offset-[3px] transition-colors group-hover:decoration-[#5a5e66]">How this blog works</h2><p class="text-muted font-serif mt-2 leading-relaxed">Write markdown, get real URLs, working link previews, and a two-minute path to Substack. A working note to myself.</p></a><div class="mt-3 flex flex-wrap gap-x-3"><span class="tag">meta</span></div></div></li></ul></main><footer class="text-faint mt-24 flex items-center justify-between font-mono text-xs"><span>© 2026 Jeffery Sun</span><a href="/rss.xml" class="ulink text-faint tracking-[0.15em]">rss</a></footer></div></div></body></html>

diff --git a/404.html b/404.html
@@ -1,1 +1,1 @@
-<!DOCTYPE html><html lang="en"><head><meta charset="utf-8"><meta name="viewport" content="width=device-width, initial-scale=1"><meta name="theme-color" content="#fafaf8"><meta name="generator" content="Astro v7.0.9"><title>404 — 0xjeffery</title><meta name="description" content="That page doesn't exist."><link rel="canonical" href="https://0xjeffery.com/404/"><link rel="icon" href="/logo.png" type="image/png"><link rel="sitemap" href="/sitemap-index.xml"><link rel="alternate" type="application/rss+xml" title="0xjeffery — Writing on markets, AI, and tech." href="https://0xjeffery.com/rss.xml"><!-- Open Graph: what LinkedIn (and most everything else) reads. --><meta property="og:type" content="website"><meta property="og:url" content="https://0xjeffery.com/404/"><meta property="og:title" content="404"><meta property="og:description" content="That page doesn't exist."><meta property="og:image" content="https://0xjeffery.com/og/index.png"><meta property="og:image:width" content="1200"><meta property="og:image:height" content="630"><meta property="og:image:alt" content="404"><meta property="og:site_name" content="0xjeffery"><meta property="og:locale" content="en_US"><!-- Twitter/X card. `summary_large_image` is what renders the big preview. --><meta name="twitter:card" content="summary_large_image"><meta name="twitter:title" content="404"><meta name="twitter:description" content="That page doesn't exist."><meta name="twitter:image" content="https://0xjeffery.com/og/index.png"><meta name="twitter:image:alt" content="404"><link rel="preconnect" href="https://fonts.googleapis.com"><link rel="preconnect" href="https://fonts.gstatic.com" crossorigin><link href="https://fonts.googleapis.com/css2?family=JetBrains+Mono:wght@400;500;700&family=Source+Serif+4:ital,opsz,wght@0,8..60,400..600;1,8..60,400&display=swap" rel="stylesheet"><link rel="stylesheet" href="/_astro/BaseLayout.CXotwUak.css"></head><body><div class="animate-fade-up min-h-screen overflow-x-hidden"><div class="mx-auto max-w-[74rem] px-5 py-10 sm:px-8 sm:py-12"><div class="frame border-line relative px-1 sm:border-x sm:px-8 lg:px-10"><main class="py-2"><div class="py-20"><p class="text-faint font-mono text-xs tracking-[0.18em] uppercase">error 404</p><h1 class="text-ink mt-4 font-mono text-2xl font-bold tracking-tight">No such page</h1><p class="text-muted font-serif mt-3 text-lg">That link doesn't lead anywhere. <a href="/" class="ulink">Back to the index</a>.</p></div></main><footer class="border-line text-faint mt-20 flex items-center justify-between border-t pt-5 font-mono text-xs"><span>© 2026 Jeffery Sun</span><a href="/rss.xml" class="ulink text-faint tracking-[0.15em]">rss</a></footer></div></div></div></body></html>
+<!DOCTYPE html><html lang="en"><head><meta charset="utf-8"><meta name="viewport" content="width=device-width, initial-scale=1"><meta name="theme-color" content="#fafaf8"><meta name="generator" content="Astro v7.0.9"><title>404 — 0xjeffery</title><meta name="description" content="That page doesn't exist."><link rel="canonical" href="https://0xjeffery.com/404/"><link rel="icon" href="/logo.png" type="image/png"><link rel="sitemap" href="/sitemap-index.xml"><link rel="alternate" type="application/rss+xml" title="0xjeffery — Writing on markets, AI, and tech." href="https://0xjeffery.com/rss.xml"><!-- Open Graph: what LinkedIn (and most everything else) reads. --><meta property="og:type" content="website"><meta property="og:url" content="https://0xjeffery.com/404/"><meta property="og:title" content="404"><meta property="og:description" content="That page doesn't exist."><meta property="og:image" content="https://0xjeffery.com/og/index.png"><meta property="og:image:width" content="1200"><meta property="og:image:height" content="630"><meta property="og:image:alt" content="404"><meta property="og:site_name" content="0xjeffery"><meta property="og:locale" content="en_US"><!-- Twitter/X card. `summary_large_image` is what renders the big preview. --><meta name="twitter:card" content="summary_large_image"><meta name="twitter:title" content="404"><meta name="twitter:description" content="That page doesn't exist."><meta name="twitter:image" content="https://0xjeffery.com/og/index.png"><meta name="twitter:image:alt" content="404"><link rel="preconnect" href="https://fonts.googleapis.com"><link rel="preconnect" href="https://fonts.gstatic.com" crossorigin><link href="https://fonts.googleapis.com/css2?family=JetBrains+Mono:wght@400;500;700&family=Source+Serif+4:ital,opsz,wght@0,8..60,400..600;1,8..60,400&display=swap" rel="stylesheet"><link rel="stylesheet" href="/_astro/BaseLayout.9wKVtOul.css"></head><body><div class="animate-fade-up min-h-screen overflow-x-hidden"><div class="mx-auto max-w-[74rem] px-5 py-14 sm:px-10 sm:py-16 lg:px-14"><main><div class="py-20"><p class="text-faint font-mono text-xs tracking-[0.18em] uppercase">error 404</p><h1 class="text-ink mt-4 font-mono text-2xl font-bold tracking-tight">No such page</h1><p class="text-muted font-serif mt-3 text-lg">That link doesn't lead anywhere. <a href="/" class="ulink">Back to the index</a>.</p></div></main><footer class="text-faint mt-24 flex items-center justify-between font-mono text-xs"><span>© 2026 Jeffery Sun</span><a href="/rss.xml" class="ulink text-faint tracking-[0.15em]">rss</a></footer></div></div></body></html>
